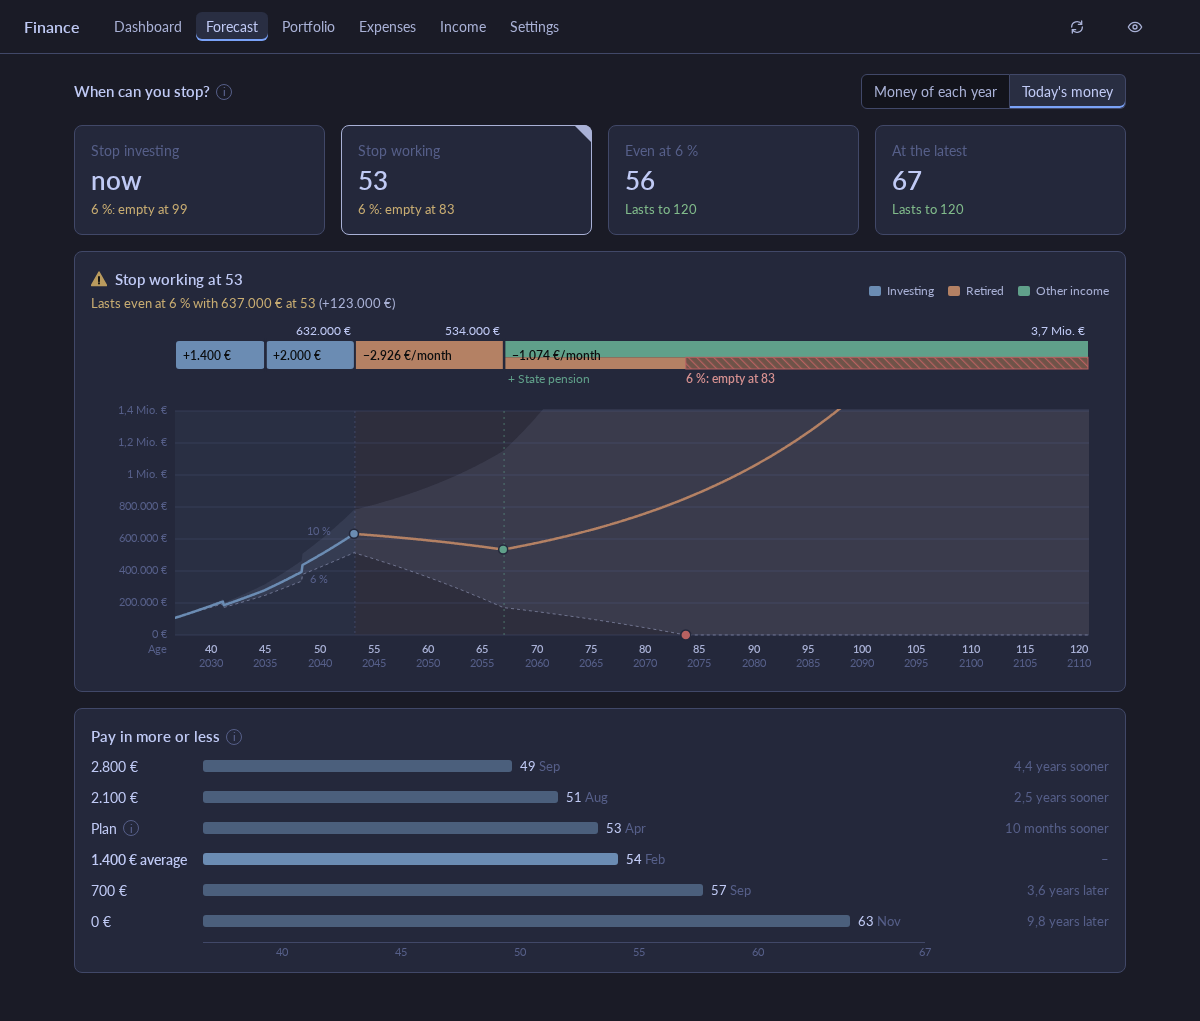
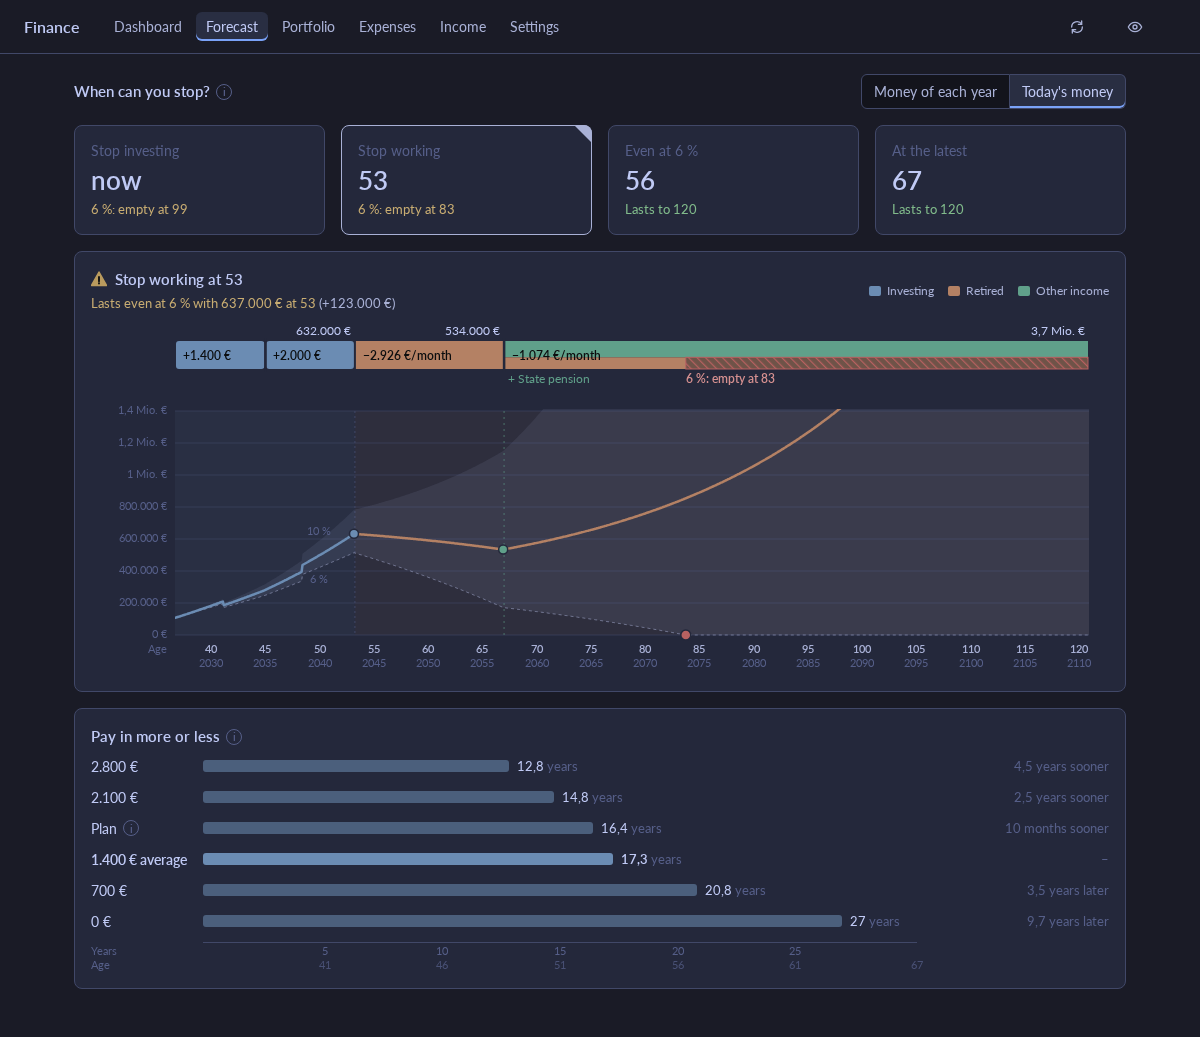
Show years from now on the pay-in card
Each bar on "Pay in more or less" now ends with how long it is from this
month ("12,8 years", months under a year) instead of the age and month.
Sooner or later is the difference of the shown tenths, so the rows add
up. The line under the bars counts years from now, with the age then
under it, and still ends at the retirement age; the hover tip keeps the
month and age.

The Dashboard's Milestones and the Path to FI line count "in N years"
from this month too, not from the latest recorded month, so they match
the card.

diff --git a/app/style.css b/app/style.css
@@ -1257,11 +1257,11 @@ main > div {
 }
 
 /* Pay in more or less: a bar per amount, from now to when you could stop
-   working, on an age line to the retirement age. The rows share the
-   columns: the amount, the bar, sooner or later. --at is where on the
-   line, 0 to 1; the line leaves room after it for the age and month. */
+   working, on a line of years from now to the retirement age. The rows
+   share the columns: the amount, the bar, sooner or later. --at is where
+   on the line, 0 to 1; the line leaves room after it for how long. */
 .payin-rows {
-  --payin-room: 64px;
+  --payin-room: 72px;
   display: grid;
   grid-template-columns: max-content minmax(0, 1fr) max-content;
   column-gap: 16px;
@@ -1282,7 +1282,7 @@ main > div {
 }
 
 .payin-row.average .payin-label,
-.payin-row.average .payin-age {
+.payin-row.average .payin-time {
   font-weight: 600;
 }
 
@@ -1311,7 +1311,7 @@ main > div {
   background: repeating-linear-gradient(135deg, color-mix(in srgb, var(--series-1) 30%, transparent) 0 4px, transparent 4px 8px);
 }
 
-.payin-age {
+.payin-time {
   position: absolute;
   top: -1px;
   left: calc((100% - var(--payin-room)) * var(--at));
@@ -1320,7 +1320,7 @@ main > div {
   white-space: nowrap;
 }
 
-.payin-month {
+.payin-unit {
   color: var(--fg-muted);
   font-weight: 400;
 }
@@ -1331,8 +1331,19 @@ main > div {
   text-align: right;
 }
 
+/* Two lines: years from now, and the age then under it. */
 .payin-axis .payin-track {
-  height: 14px;
+  height: 30px;
+}
+
+.payin-axis .payin-label {
+  display: flex;
+  flex-direction: column;
+  align-self: start;
+  padding-top: 2px;
+  color: var(--fg-muted);
+  font-size: 11px;
+  line-height: 14px;
 }
 
 /* The line ends at the retirement age. */
@@ -1345,13 +1356,26 @@ main > div {
   border-top: 1px solid var(--border);
 }
 
-.payin-axis .payin-track span {
+.payin-tick {
   position: absolute;
   top: 2px;
   left: calc((100% - var(--payin-room)) * var(--at));
   transform: translateX(-50%);
+  display: flex;
+  flex-direction: column;
+  align-items: center;
   color: var(--fg-muted);
   font-size: 11px;
+  line-height: 14px;
+}
+
+/* The end has no years, only the age. */
+.payin-tick > span {
+  height: 14px;
+}
+
+.payin-tick-age {
+  opacity: 0.75;
 }
 
 @media (max-width: 520px) {

diff --git a/README.md b/README.md
@@ -311,8 +311,9 @@ month without values.
 
 **Milestones** lists the milestones on the way to FI, in the order the
 portfolio reaches them. Each says what the portfolio needs (and how much
-is still to go), how much of it the portfolio has, and when it gets there,
-with your age then.
+is still to go), how much of it the portfolio has, and when it gets there:
+how long from this month (which can be after the latest month with
+values), and the month with your age then.
 
 | Milestone | Needs |
 | --- | --- |
@@ -350,8 +351,8 @@ The **Portfolio** chart has two views; the one picked last stays picked.
   to the FI number, and never past retirement. From the latest month on, the
   FI number is what FI needs at each month's end, that of retiring the month
   after, risen by the inflation. The line under the chart
-  says when each reaches the FI number; its ⓘ, what the FI number is by
-  then.
+  says when each reaches the FI number, at the expected return also how
+  long that is from this month; its ⓘ, what the FI number is by then.
   Its switch shows the projection in today's money (the default) or in the
   money of each year, as on the Forecast page.
 
@@ -437,12 +438,14 @@ dashboard has the same switch; the choice is remembered in this browser,
 not in the data file.
 
 **Pay in more or less** shows what paying in more or less does: a bar for
-each amount a month, from now to the age you could stop working (as Stop
-working counts it, at the expected return), on an age line to the
-retirement age, and how much sooner or later that is than with the average
-pay-in of the last 12 months (bold): months under a year, else years to
-a tenth. Each age has the month in that year next to it, so rows at the
-same age add up; hovering a bar shows the year too. The others are 2, 1½, ½ and 0 times
+each amount a month, from now to when you could stop working (as Stop
+working counts it, at the expected return), with how long that is from
+this month after it, and how much sooner or later that is than with the
+average pay-in of the last 12 months (bold). Both are in months under a
+year, else in years to a tenth; sooner or later is the difference of the
+tenths shown, so the rows add up. The line under the bars counts years
+from now, with your age then under it, and ends at the retirement age;
+hovering a bar shows its month and your age. The others are 2, 1½, ½ and 0 times
 the average, each paid in every month from now on (rising with inflation
 when pay-ins do); with an average of 0, round amounts near a quarter of the
 expenses. **Plan** is what you pay in
